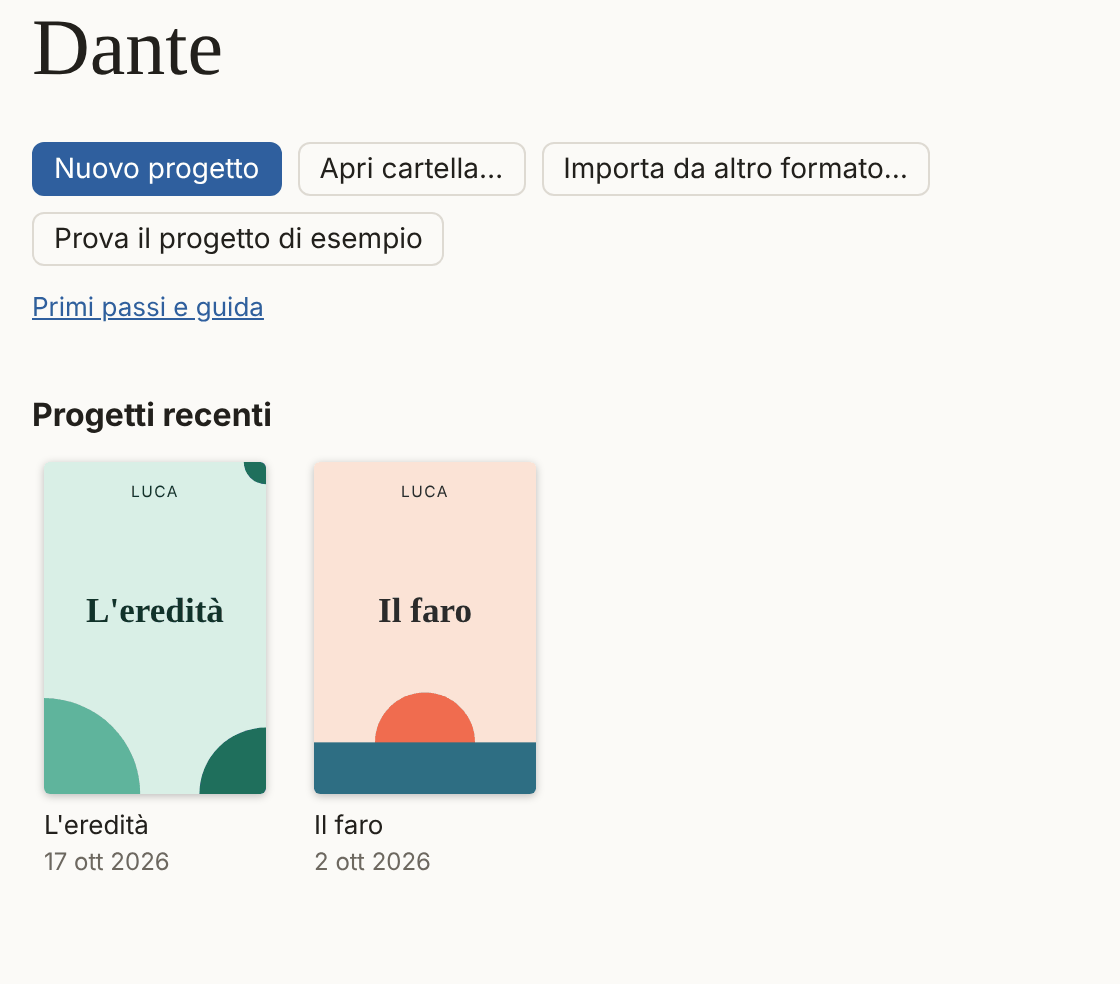
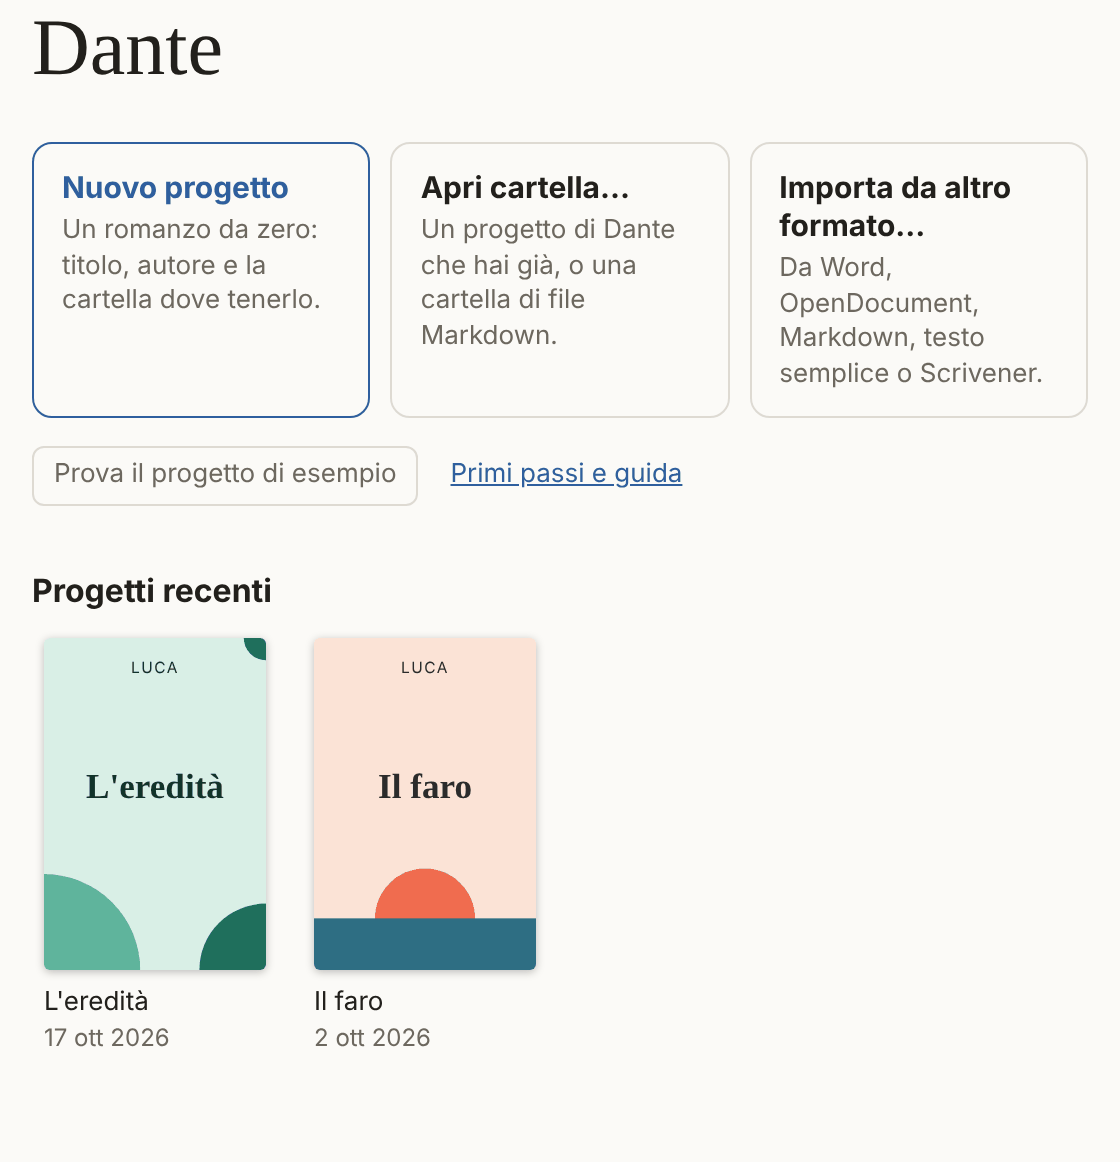
Start screen with three explained choices; ask the title of a new gamebook page
Claude-Session: https://claude.ai/code/session_01QmKvjxz1XSNm2HrzeAMf3a

diff --git a/src/lib/ui/ManuscriptView.svelte b/src/lib/ui/ManuscriptView.svelte
@@ -27,6 +27,7 @@
   import { dirname } from "$lib/core/path";
   import ShuffleDialog from "./ShuffleDialog.svelte";
   import TransferDialog from "./TransferDialog.svelte";
+  import Dialog from "./Dialog.svelte";
   import NewParagraphDialog from "./NewParagraphDialog.svelte";
   import { panes } from "./panes.svelte";
   import { navigator } from "./navigation";
@@ -418,8 +419,19 @@
   /** In a gamebook: a page without a number (rules, an introduction), next to the selected paragraph's folder. */
   function newPage() {
     const node = selected ? findNode(selected) : null;
-    const dir = node?.kind === "scene" ? dirname(node.path) : (node?.path ?? tree.path);
-    void run(() => project.createPage(dir, t("gamebook.newPageTitle")), "start");
+    newPageIn = node?.kind === "scene" ? dirname(node.path) : (node?.path ?? tree.path);
+    newPageTitle = "";
+  }
+
+  /** The folder a new page is being named for; the title is asked first, as for a paragraph. */
+  let newPageIn = $state<string | null>(null);
+  let newPageTitle = $state("");
+
+  function createPage() {
+    const dir = newPageIn;
+    const title = newPageTitle.trim() || t("gamebook.newPageTitle");
+    newPageIn = null;
+    if (dir !== null) void run(() => project.createPage(dir, title), "start");
   }
 
   /** New scene in the selected chapter, or right after the selected scene. */
@@ -1201,6 +1213,27 @@
     </SidePanel>
 {/snippet}
 
+{#if newPageIn !== null}
+  <Dialog label={t("gamebook.newPage")} onClose={() => (newPageIn = null)} width={420}>
+    <form
+      class="page-form"
+      onsubmit={(e) => {
+        e.preventDefault();
+        createPage();
+      }}
+    >
+      <h2>{t("gamebook.newPage")}</h2>
+      <!-- svelte-ignore a11y_autofocus -->
+      <label>{t("gamebook.pageTitle")} <input bind:value={newPageTitle} placeholder={t("gamebook.newPageTitle")} autofocus /></label>
+      <p class="muted">{t("gamebook.pageTitleHint")}</p>
+      <div class="page-actions">
+        <button type="button" onclick={() => (newPageIn = null)}>{t("tree.cancel")}</button>
+        <button type="submit" class="primary">{t("gamebook.new.create")}</button>
+      </div>
+    </form>
+  </Dialog>
+{/if}
+
 {#if newParagraphIn !== null}
   {@const scope = newParagraphIn}
   {@const book = noteIndex ? gamebookOf(noteIndex, project.settings) : null}
@@ -1514,5 +1547,28 @@
   .error {
     color: var(--danger);
     padding: 0 12px;
+  }
+  .page-form {
+    display: grid;
+    gap: 10px;
+  }
+  .page-form h2 {
+    margin: 0;
+    font-size: 17px;
+  }
+  .page-form label {
+    display: grid;
+    gap: 4px;
+    font-size: 13px;
+  }
+  .page-form .muted {
+    margin: 0;
+    font-size: 13px;
+    color: var(--text-muted);
+  }
+  .page-actions {
+    display: flex;
+    justify-content: flex-end;
+    gap: 8px;
   }
 </style>

diff --git a/src/lib/ui/Welcome.svelte b/src/lib/ui/Welcome.svelte
@@ -408,15 +408,24 @@
       {/if}
     </form>
   {:else}
-    <div class="actions">
+    <!-- Three ways to start, each with a line that says what it does. -->
+    <div class="choices">
       {#if folders}
-        <button class="primary" onclick={() => (creating = true)}>{t("welcome.new")}</button>
-        <button onclick={openFolder}>{t("welcome.open")}</button>
+        <button class="choice main" aria-label={t("welcome.new")} aria-describedby="welcome-new" onclick={() => (creating = true)}>
+          <strong>{t("welcome.new")}</strong><span id="welcome-new">{t("welcome.newHint")}</span>
+        </button>
+        <button class="choice" aria-label={t("welcome.open")} aria-describedby="welcome-open" onclick={openFolder}>
+          <strong>{t("welcome.open")}</strong><span id="welcome-open">{t("welcome.openHint")}</span>
+        </button>
       {/if}
-      <button onclick={() => (choosingImport = true)}>{t("import.other")}</button>
-      <button onclick={openSample}>{t("welcome.sample")}</button>
+      <button class="choice" aria-label={t("import.other")} aria-describedby="welcome-import" onclick={() => (choosingImport = true)}>
+        <strong>{t("import.other")}</strong><span id="welcome-import">{t("welcome.importHint")}</span>
+      </button>
     </div>
-    <p class="help-link"><button class="link" onclick={() => openHelp("first")}>{t("welcome.help")}</button></p>
+    <p class="help-link">
+      <button onclick={openSample}>{t("welcome.sample")}</button>
+      <button class="link" onclick={() => openHelp("first")}>{t("welcome.help")}</button>
+    </p>
     {#if !folders}
       <p class="note">{t("welcome.browser")}</p>
     {/if}
@@ -481,6 +490,34 @@
   p {
     color: var(--text-muted);
     line-height: 1.5;
+  }
+  .choices {
+    display: grid;
+    grid-template-columns: repeat(auto-fit, minmax(160px, 1fr));
+    gap: 10px;
+    margin-top: 16px;
+  }
+  .choice {
+    display: grid;
+    gap: 4px;
+    align-content: start;
+    padding: 12px 14px;
+    text-align: left;
+    border-radius: 10px;
+  }
+  .choice strong {
+    font-size: 15px;
+  }
+  .choice span {
+    font-size: 13px;
+    line-height: 1.35;
+    color: var(--text-muted);
+  }
+  .choice.main {
+    border-color: var(--accent);
+  }
+  .choice.main strong {
+    color: var(--accent);
   }
   .actions {
     display: flex;
@@ -595,7 +632,11 @@
     font-size: 13px;
   }
   .help-link {
-    margin: 12px 0 0;
+    display: flex;
+    flex-wrap: wrap;
+    align-items: center;
+    gap: 8px 16px;
+    margin: 14px 0 0;
     font-size: 13px;
   }
   .destinations {

diff --git a/src/lib/i18n/it.ts b/src/lib/i18n/it.ts
@@ -1495,6 +1495,11 @@ export const it: Partial<Record<MessageKey, string>> = {
   "command.go": "Vai a: {name}",
   "command.show": "Mostra: {name}",
   "command.hide": "Nascondi: {name}",
+  "welcome.newHint": "Un romanzo da zero: titolo, autore e la cartella dove tenerlo.",
+  "welcome.openHint": "Un progetto di Dante che hai già, o una cartella di file Markdown.",
+  "welcome.importHint": "Da Word, OpenDocument, Markdown, testo semplice o Scrivener.",
+  "gamebook.pageTitle": "Titolo della pagina",
+  "gamebook.pageTitleHint": "Una pagina non ha numero: regole, introduzione, ringraziamenti. Di base va prima dei paragrafi.",
   "views.deleteThis": "Elimina questa vista",
   "settings.search": "Cerca nelle impostazioni",
   "settings.noMatch": "Nessuna sezione corrisponde.",

diff --git a/src/lib/i18n/en.ts b/src/lib/i18n/en.ts
@@ -1495,6 +1495,11 @@ export const en = {
   "command.go": "Go to: {name}",
   "command.show": "Show: {name}",
   "command.hide": "Hide: {name}",
+  "welcome.newHint": "A novel from scratch: title, author and the folder to keep it in.",
+  "welcome.openHint": "A Dante project you already have, or a folder of Markdown files.",
+  "welcome.importHint": "From Word, OpenDocument, Markdown, plain text or Scrivener.",
+  "gamebook.pageTitle": "Title of the page",
+  "gamebook.pageTitleHint": "A page has no number: rules, introduction, acknowledgements. By default it goes before the paragraphs.",
   "views.deleteThis": "Delete this view",
   "settings.search": "Search the settings",
   "settings.noMatch": "No section matches.",

diff --git a/docs/guide.md b/docs/guide.md
@@ -794,7 +794,7 @@ Dante reads, writes, checks, shuffles and exports the book. The paragraphs stay 
 - **New paragraph**: Cmd+Enter / Ctrl+Enter, or the **＋ Paragraph** button in the formatting bar, opens the **New paragraph** window and puts the reference where the cursor is. In the window choose the title (which becomes the file name), the number (**First free number**, **Fixed** or **Relative to** another paragraph plus an offset) and whether the reference goes in the text or among the hidden ones. A selected text becomes the proposed title. The **Paragraph** button at the top of the tree opens the same window too, but creates only the paragraph, without a reference, and opens it.
 - **Boxes**: the **Box** button in the formatting bar lists the box types of the book. The box is inserted at the cursor with its emoji and its text. For the types linked to a property (such as ✏ and the property `keywords`) Dante asks for the value, proposes those already used in the book and writes it in the property of the paragraph too. An ending box (😢) marks the paragraph as an ending.
 - **Relative numbers and hidden references in the panel**: in the Paragraph panel the type of number can also be **relative**: you choose the paragraph it is tied to and the offset, and the number becomes that of the paragraph plus the offset. When the number of a paragraph changes, those relative to it move with it. Below, **Hidden references** lists those of the paragraph, with × to remove them and a list to add more.
-- **Rules and other pages**: a file of the paragraphs folder without a number (the rules, an introduction, the acknowledgements) is a page, with a sheet in place of the number. To create one press **Page** at the top of the tree: Dante calls it "New page" (with right click > **Rename** you give it its title) and opens it. By default it goes before the paragraphs; in the Paragraph panel (item **In the export it goes**) or with right click > **Put after the paragraphs** it goes at the end, and that is where the export will put it.
+- **Rules and other pages**: a file of the paragraphs folder without a number (the rules, an introduction, the acknowledgements) is a page, with a sheet in place of the number. To create one press **Page** at the top of the tree: Dante asks for the title and opens it (with right click > **Rename** you change it). By default it goes before the paragraphs; in the Paragraph panel (item **In the export it goes**) or with right click > **Put after the paragraphs** it goes at the end, and that is where the export will put it.
 
 *Example:* in paragraph 1 write "If you want to go in, turn to **[[The courtyard|2]]**". In the tree paragraph 2 is no longer an orphan, and in its panel 1 appears among the paragraphs you come from.
 

diff --git a/docs/guida.md b/docs/guida.md
@@ -794,7 +794,7 @@ Dante legge, scrive, controlla, rimescola ed esporta il libro. I paragrafi resta
 - **Nuovo paragrafo**: Cmd+Invio / Ctrl+Invio, oppure il pulsante **＋ Paragrafo** nella barra di formattazione, apre la finestra **Nuovo paragrafo** e mette il rimando dove c'è il cursore. Nella finestra scegli il titolo (che diventa il nome del file), il numero (**primo numero libero**, **fisso** o **relativo a** un altro paragrafo più uno scarto) e se il rimando va nel testo o tra quelli nascosti. Un testo selezionato diventa il titolo proposto. Anche il pulsante **Paragrafo** in cima all'albero apre la stessa finestra, ma crea solo il paragrafo, senza rimando, e lo apre.
 - **Box**: il pulsante **Box** nella barra di formattazione elenca i tipi di box del libro. Il box si inserisce al cursore con la sua emoji e il suo testo. Per i tipi legati a una proprietà (come ✏ e la proprietà `parole chiave`) Dante chiede il valore, propone quelli già usati nel libro e lo scrive anche nella proprietà del paragrafo. Un box di fine (😢) segna il paragrafo come finale.
 - **Relativi e rimandi nascosti nel pannello**: nel pannello Paragrafo il tipo di numero può essere anche **relativo**: si sceglie il paragrafo a cui è legato e lo scarto, e il numero diventa quello del paragrafo più lo scarto. Quando il numero di un paragrafo cambia, quelli relativi a lui si spostano con lui. Sotto, **Rimandi nascosti** elenca quelli del paragrafo, con × per toglierli e un elenco per aggiungerne.
-- **Regole e altre pagine**: un file della cartella dei paragrafi senza numero (le regole, un'introduzione, i ringraziamenti) è una pagina, con un foglio al posto del numero. Per crearne una premi **Pagina** in cima all'albero: Dante la chiama «Nuova pagina» (con il clic destro > **Rinomina** le dai il titolo) e la apre. Di base va prima dei paragrafi; nel pannello Paragrafo (voce **Nell'esportazione va**) o con il clic destro > **Metti dopo i paragrafi** va in fondo, ed è così che l'esportazione la metterà.
+- **Regole e altre pagine**: un file della cartella dei paragrafi senza numero (le regole, un'introduzione, i ringraziamenti) è una pagina, con un foglio al posto del numero. Per crearne una premi **Pagina** in cima all'albero: Dante chiede il titolo e la apre (con il clic destro > **Rinomina** lo cambi). Di base va prima dei paragrafi; nel pannello Paragrafo (voce **Nell'esportazione va**) o con il clic destro > **Metti dopo i paragrafi** va in fondo, ed è così che l'esportazione la metterà.
 
 *Esempio:* nel paragrafo 1 scrivi «Se vuoi entrare vai al **[[Il cortile|2]]**». Nell'albero il paragrafo 2 non è più orfano, e nel suo pannello compare 1 tra i paragrafi da cui si arriva.
 

diff --git a/docs/novita.md b/docs/novita.md
@@ -27,6 +27,8 @@ Cosa cambia in ogni versione di Dante, dalla più recente. Le stesse note compai
 
 ### Cambiato
 
+- **Schermata iniziale più chiara**: tre scelte (nuovo progetto, apri cartella, importa), ognuna con una riga che dice cosa fa; il progetto di esempio e la guida stanno sotto.
+- **Titolo delle pagine dei libri game**: il pulsante Pagina chiede subito il titolo, come per i paragrafi.
 - **Guida riordinata per compito**: i capitoli seguono ora quello che si fa (iniziare, scrivere, organizzare, rivedere, pubblicare, sicurezza e aggiornamenti) e non più l'ordine in cui le funzioni sono arrivate; i rimandi «capitolo N» sono aggiornati. I capitoli su browser, aiuto, aspetto e libri game hanno ora le immagini.
 - **Icone uguali su ogni computer**: cartelle, file, avvisi, lucchetti dei libri game e il fumetto dei commenti sono ora disegnati a tratto come il resto delle icone, al posto delle emoji che cambiavano tra Mac e Windows. Le emoji restano per i tipi della Bibbia e i box, dove le scegli tu.
 - **Rifiniture**: il campo Sinossi ha lo stesso aspetto degli altri campi, i nomi delle colonne in bacheca hanno l'iniziale maiuscola e, se nel sistema hai chiesto di ridurre le animazioni, Dante le spegne.

diff --git a/docs/whats-new.md b/docs/whats-new.md
@@ -27,6 +27,8 @@ What changes in each version of Dante, newest first. The same notes appear on th
 
 ### Changed
 
+- **Clearer start screen**: three choices (new project, open folder, import), each with a line that says what it does; the sample project and the guide are below.
+- **Title of gamebook pages**: the Page button asks for the title at once, as for paragraphs.
 - **Guide reordered by task**: the chapters now follow what you do (starting, writing, organising, revising, publishing, safety and updates) and no longer the order in which features arrived; the "chapter N" references are updated. The chapters on the browser, help, look and gamebooks now have pictures.
 - **The same icons on every computer**: folders, files, warnings, gamebook padlocks and the comment bubble are now line drawings like the other icons, in place of emoji that changed between Mac and Windows. Emoji stay for Bible types and boxes, where you choose them.
 - **Finishing touches**: the Synopsis field looks like the other fields, board column names start with a capital and, if you asked the system to reduce motion, Dante turns its animations off.
